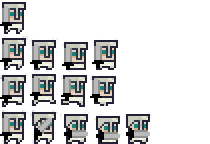
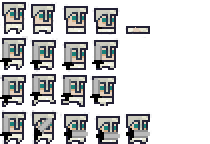
Updated menu bg. Added Player Death Animation

Changed region(s): [[0.1429, 0.0278, 0.5714, 0.25], [0.0, 0.0556, 0.0857, 0.2222], [0.6, 0.1667, 0.7143, 0.25]]

diff --git a/src/app/modules/characters/character_holyknight/character_holyknight.ts b/src/app/modules/characters/character_holyknight/character_holyknight.ts
@@ -16,10 +16,11 @@ export class character_swordsman {
     collision: collision;
     inAnims: boolean = false;
     monsterControl!: monsterControl;
-    healthPoint: number = 100;
+    healthPoint: number = 10;
     energyPoint: number = 50;
     canAttack: boolean = true;
     canMove: boolean = true;
+    isDead: boolean = false;
 
     private attackCounter: integer = 0;
     gameScene: Phaser.Scene;
@@ -98,11 +99,17 @@ export class character_swordsman {
 
 
     public update() {
-        this.slashMachine();
-        this.chargeMachine();
-        this.shieldMachine();
-        this.sprite_machine();
-        this.limitValues();
+        if(!this.isDead){
+            this.slashMachine();
+            this.chargeMachine();
+            this.shieldMachine();
+            this.sprite_machine();
+            this.limitValues();
+        }
+    }
+
+    public checkDeath(){
+        return this.isDead;
     }
 
     public createAnims() {
@@ -119,6 +126,12 @@ export class character_swordsman {
             frameRate: 10,
             repeat: -1,
         });
+
+        this.gameScene.anims.create({
+            key: "die",
+            frames: this.gameScene.anims.generateFrameNumbers("character_swordman", { start: 0, end: 4 }),
+            frameRate: 10,
+        })
 
         this.gameScene.anims.create({
             key: "attack",
@@ -240,6 +253,15 @@ export class character_swordsman {
                 if (this.slashStateValue == "idle" && (this.shieldStateValue == "idle" || this.shieldStateValue == "playing") && this.chargeStateValue == "idle") {
                     this.spriteStateValue = "idle";
                 }
+                break;
+            }
+            case "dying": {
+                this.sprite.anims.play("die", true);
+                this.spriteStateValue = "dead";
+                break;
+            }
+            case "dead": {
+                this.isDead = true;
                 break;
             }
             default: {
@@ -543,14 +565,19 @@ export class character_swordsman {
     }
 
     private limitValues() {
-        if (this.energyPoint <= 0){
+        if (this.energyPoint <= 0) {
             this.energyPoint = 0;
-        } else if (this.energyPoint >= 100){
+        } else if (this.energyPoint >= 100) {
             this.energyPoint = 100;
         }
 
-        if (this.healthPoint >= 100){
+        if (this.healthPoint >= 100) {
             this.healthPoint = 100;
+        } else if (this.healthPoint <= 0) {
+            if (this.spriteStateValue != "dying" && this.spriteStateValue != "dead") {
+                this.spriteStateValue = "dying";
+                this.sprite.setPushable(false);
+            }
         }
     }
 

diff --git a/src/app/pages/home/home.component.html b/src/app/pages/home/home.component.html
@@ -3,7 +3,7 @@
 </div>
 <div class="flex-row">
     <div class="container">
-        <img class="menu-image" src="../../../assets/main_menu_bg.svg" />
+        <img class="menu-image" src="../../../assets/mainMenu.png" />
 
         <div class="button-box">
             <div class="flex-row">

diff --git a/src/app/components/game/game.component.ts b/src/app/components/game/game.component.ts
@@ -104,6 +104,9 @@ class MainScene extends Phaser.Scene {
     this.monsterControl.update(this.player);
     this.score += this.monsterControl.getScore();
     this.interface.changeScore(this.score);
+    if(this.player.checkDeath()){
+      console.log("Player is Dead");
+    }
   }
 
 
